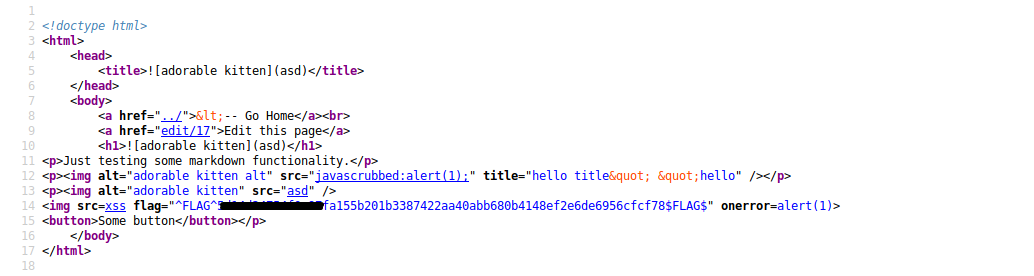
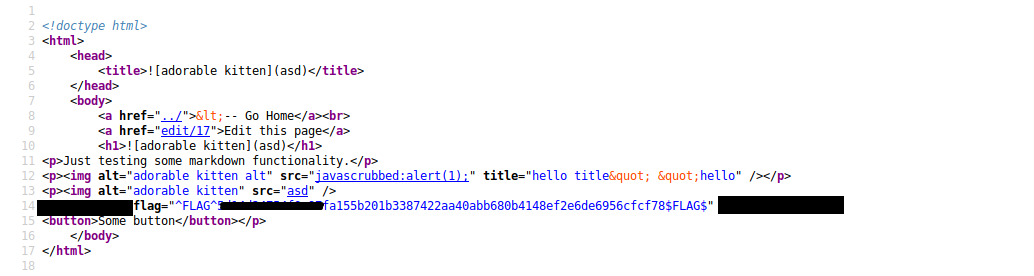
add new flag 2 and edit picture  Micro-CMS v1-flag1.png

Changed region(s): [[0.6809, 0.6957, 0.8356, 0.7826], [0.0309, 0.7246, 0.1547, 0.7826]]

diff --git a/README.md b/README.md
@@ -5,3 +5,6 @@ edit the Title of a page and inject a html element, and then the respone shown i
 # Micro-CMS v1-flag1
 Edit the body of a page and inject a html element, and then the respone shown in below 
 ![Micro-CMSv1-flag1](https://github.com/vuongnv96/ctfhacker101/blob/master/Micro-CMS%20v1-flag1.png)
+# Micro-CMS v1-flag1
+be sure you have check all parameter in edit request
+![Micro-CMSv1-flag1](https://github.com/vuongnv96/ctfhacker101/blob/master/Micro-CMS%20v1-flag2.png)
